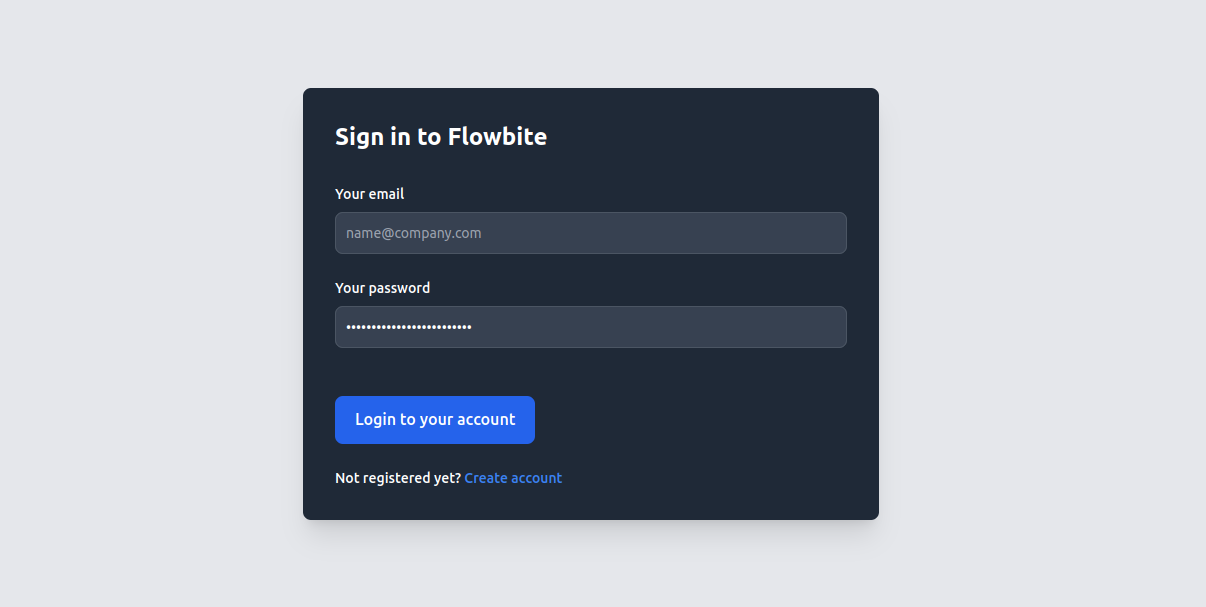
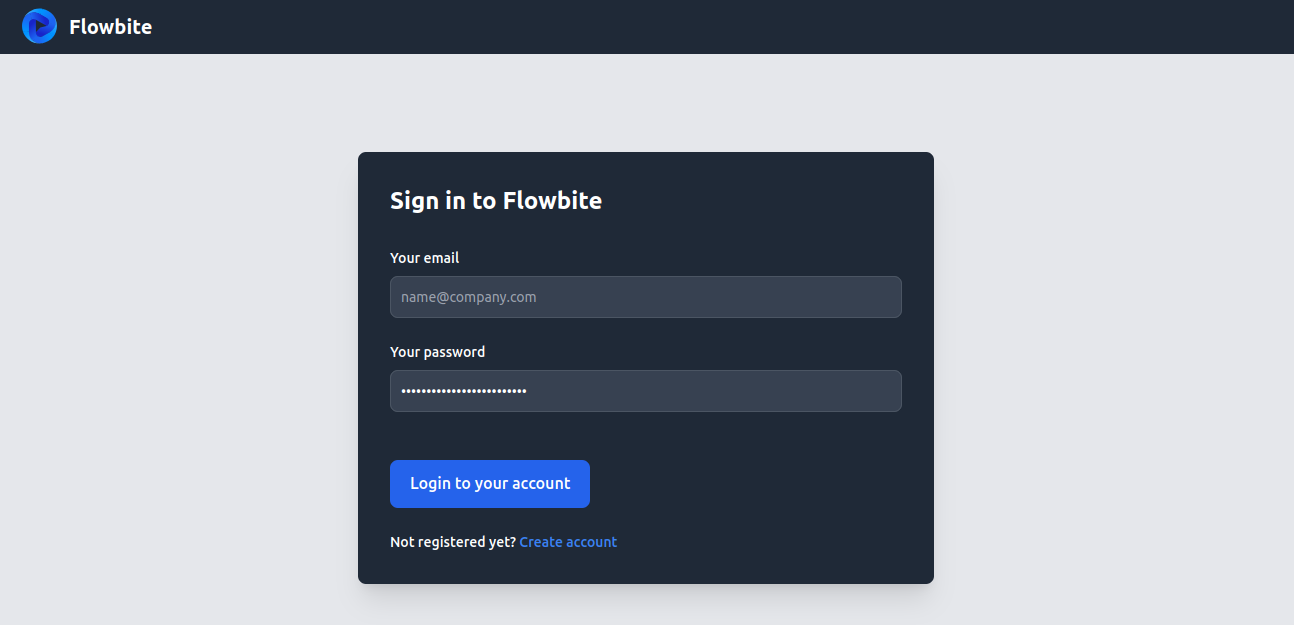
header component and fix on isCurrentUser

diff --git a/src/app/components/header/header.component.html b/src/app/components/header/header.component.html
@@ -1,0 +1,14 @@
+<header>
+  <nav class="bg-white border-gray-200 px-4 lg:px-6 py-2.5 dark:bg-gray-800">
+      <div class="flex flex-wrap justify-between items-center mx-auto max-w-screen-xl">
+          <a href="https://flowbite.com" class="flex items-center">
+              <img src="https://flowbite.com/docs/images/logo.svg" class="mr-3 h-6 sm:h-9" alt="Flowbite Logo" />
+              <span class="self-center text-xl font-semibold whitespace-nowrap dark:text-white">Flowbite</span>
+          </a>
+          <div class="flex items-center lg:order-2">
+            <a *ngIf="isLoggedIn()" href="#"  (click)="authService.SignOut()" class="text-white bg-primary-700 hover:bg-primary-800 focus:ring-4 focus:ring-primary-300 font-medium rounded-lg text-sm px-4 lg:px-5 py-2 lg:py-2.5 mr-2 dark:bg-primary-600 dark:hover:bg-primary-700 focus:outline-none dark:focus:ring-primary-800">Log out</a>
+          </div>
+
+      </div>
+  </nav>
+</header>

diff --git a/src/app/components/header/header.component.spec.ts b/src/app/components/header/header.component.spec.ts
@@ -1,0 +1,23 @@
+import { ComponentFixture, TestBed } from '@angular/core/testing';
+
+import { HeaderComponent } from './header.component';
+
+describe('HeaderComponent', () => {
+  let component: HeaderComponent;
+  let fixture: ComponentFixture<HeaderComponent>;
+
+  beforeEach(async () => {
+    await TestBed.configureTestingModule({
+      imports: [HeaderComponent]
+    })
+    .compileComponents();
+
+    fixture = TestBed.createComponent(HeaderComponent);
+    component = fixture.componentInstance;
+    fixture.detectChanges();
+  });
+
+  it('should create', () => {
+    expect(component).toBeTruthy();
+  });
+});

diff --git a/src/app/components/dashboard/dashboard.component.html b/src/app/components/dashboard/dashboard.component.html
@@ -16,7 +16,7 @@
         <a
           class="text-xs text-gray-500 dark:text-gray-200 group-hover:opacity-100 opacity-0 transform transition-all delay-300 duration-500">
           {{ user.email }}
-          <button  (click)="authService.SignOut()" class="rounded-2xl dark:bg-gray-700 px-4 py-2 font-bold leading-none text-white">Logout</button>
+          <!-- <button  (click)="authService.SignOut()" class="rounded-2xl dark:bg-gray-700 px-4 py-2 font-bold leading-none text-white">Logout</button> -->
         </a>
       </div>
     </div>

diff --git a/src/app/app.module.ts b/src/app/app.module.ts
@@ -10,10 +10,12 @@ import { SignUpComponent } from './components/sign-up/sign-up.component';
 
 import { provideHttpClient, withFetch } from '@angular/common/http';
 import { provideAnimationsAsync } from '@angular/platform-browser/animations/async';
-// TODO create footer and header
+import { HeaderComponent } from './components/header/header.component';
+
 @NgModule({
   declarations: [
     AppComponent,
+    HeaderComponent,
     DashboardComponent,
     SignInComponent,
     SignUpComponent

diff --git a/src/app/components/header/header.component.ts b/src/app/components/header/header.component.ts
@@ -1,0 +1,14 @@
+import { Component } from '@angular/core';
+import { AuthService } from '../../shared/services/auth.service';
+
+@Component({
+  selector: 'app-header',
+  templateUrl: './header.component.html',
+})
+export class HeaderComponent {
+  constructor(public authService: AuthService) {}
+
+  isLoggedIn(): boolean {
+    return this.authService.isCurrentUser;
+  }
+}

diff --git a/src/app/shared/services/auth.service.ts b/src/app/shared/services/auth.service.ts
@@ -100,8 +100,8 @@ export class AuthService {
   }
 
   get isCurrentUser(): boolean {
-    const user = JSON.parse(localStorage.getItem('token')!);
-    return user !== null ? true : false;
+    const token = sessionStorage.getItem('token');
+    return token !== null;
   }
 
   SignOut() {

diff --git a/src/app/app.component.ts b/src/app/app.component.ts
@@ -1,7 +1,9 @@
 import { Component } from '@angular/core';
 
+
 @Component({
   selector: 'app-root',
+
   templateUrl: './app.component.html'
 })
 export class AppComponent {

diff --git a/src/app/app.component.html b/src/app/app.component.html
@@ -1,3 +1,4 @@
+<app-header></app-header>
 <router-outlet>
 
 </router-outlet>
